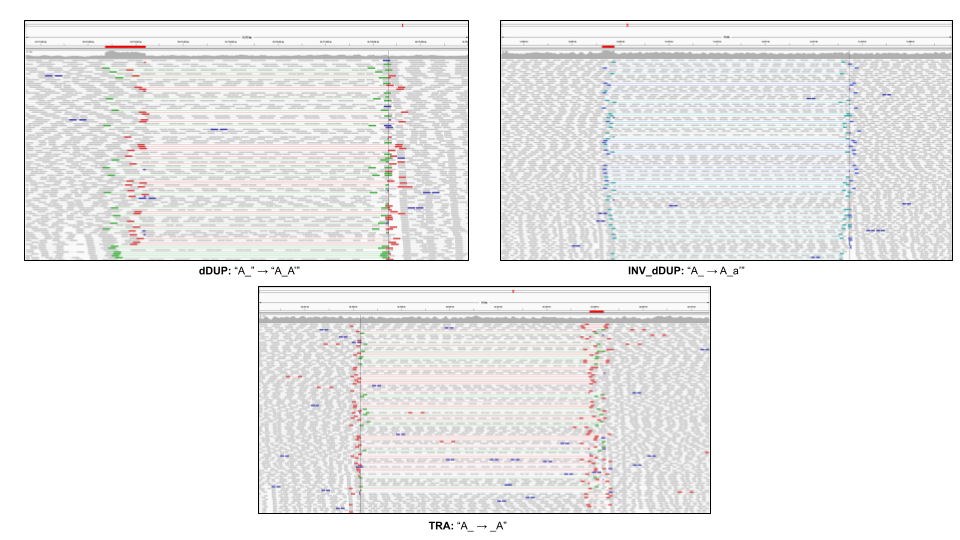
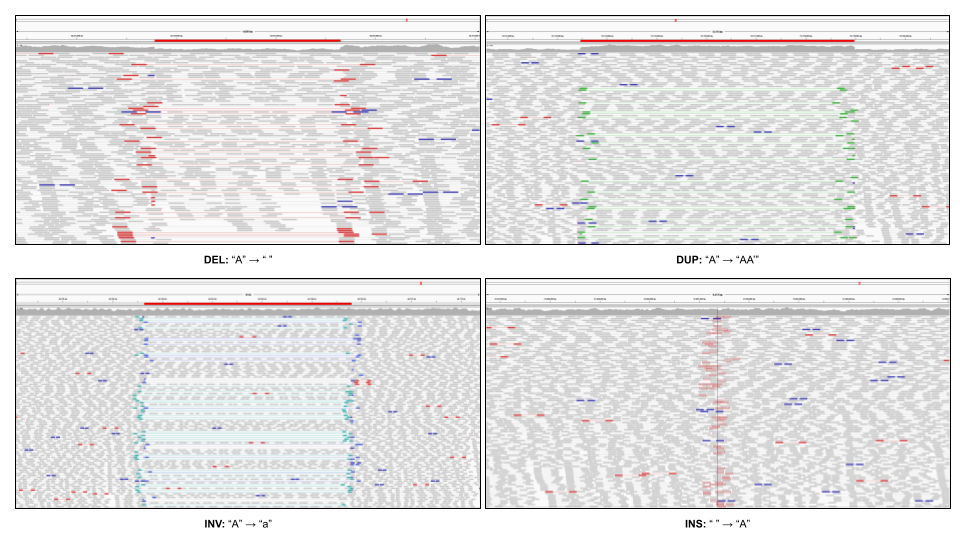
adding other svtype subfigures

diff --git a/README.md b/README.md
@@ -319,6 +319,11 @@ will be stored in `{output_prefix}1_decoy_divrepeat_intervals.vcf`, and the simu
 Below are IGV visualizations of the alignment signal under each event in insilicoSV's current library of named SV types.
 
 ![Alt text](imgs/simple_examples.png)
+![Alt text](imgs/flanked_INV_examples.png)
+![Alt text](imgs/divergence_examples.png)
+![Alt text](imgs/dispersion_examples.png)
+![Alt text](imgs/INVdup_INVdel_examples.png)
+![Alt text](imgs/INV_dup_idel_examples.png)
 
 ## How to Contribute
 Pull requests are welcome. For major changes, please open an issue first to discuss what you would like to change. Please make sure to update tests as appropriate. If you'd like to contribute, please fork the repository and make changes as you'd like.
